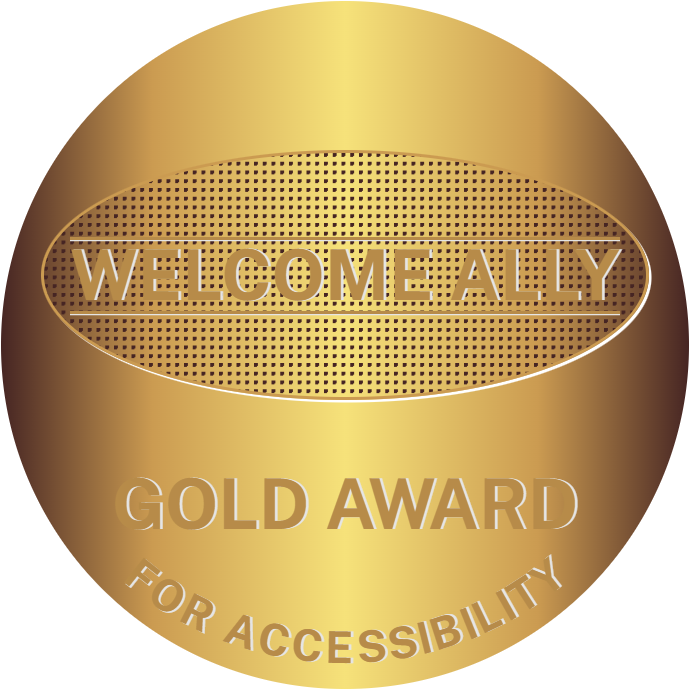
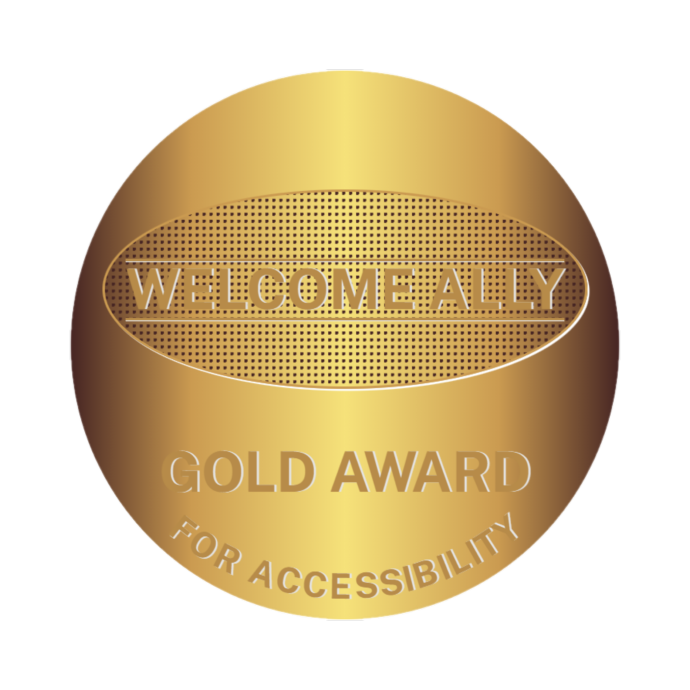
Gold medal transparent background

diff --git a/pages/index.js b/pages/index.js
@@ -158,7 +158,6 @@ export default function Home() {
           <div className="position-relative float-start me-3 mb-1 award">
             <Image
               src="/gold.png"
-              fill
               alt="Welcome Ally Gold Award"
               layout={"fill"}
               objectFit={"contain"}

diff --git a/scss/_globals.scss b/scss/_globals.scss
@@ -1,6 +1,7 @@
 html,
 body {
   height: 100%;
+  background-color: white;
 }
 body {
   display: flex;
